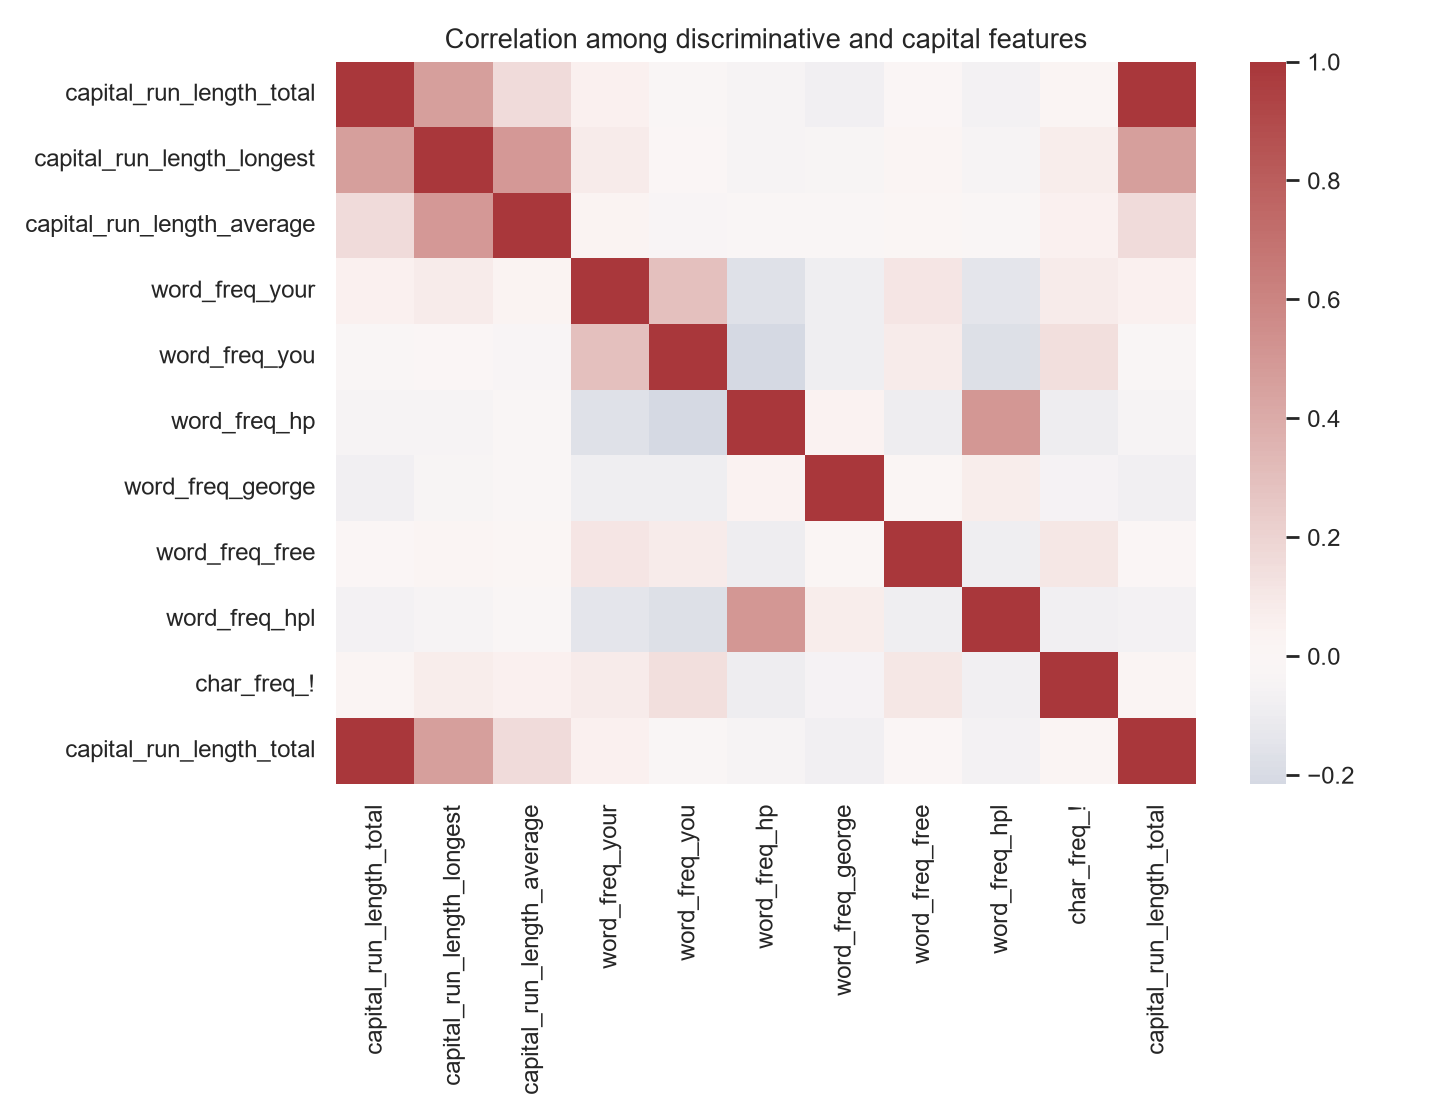
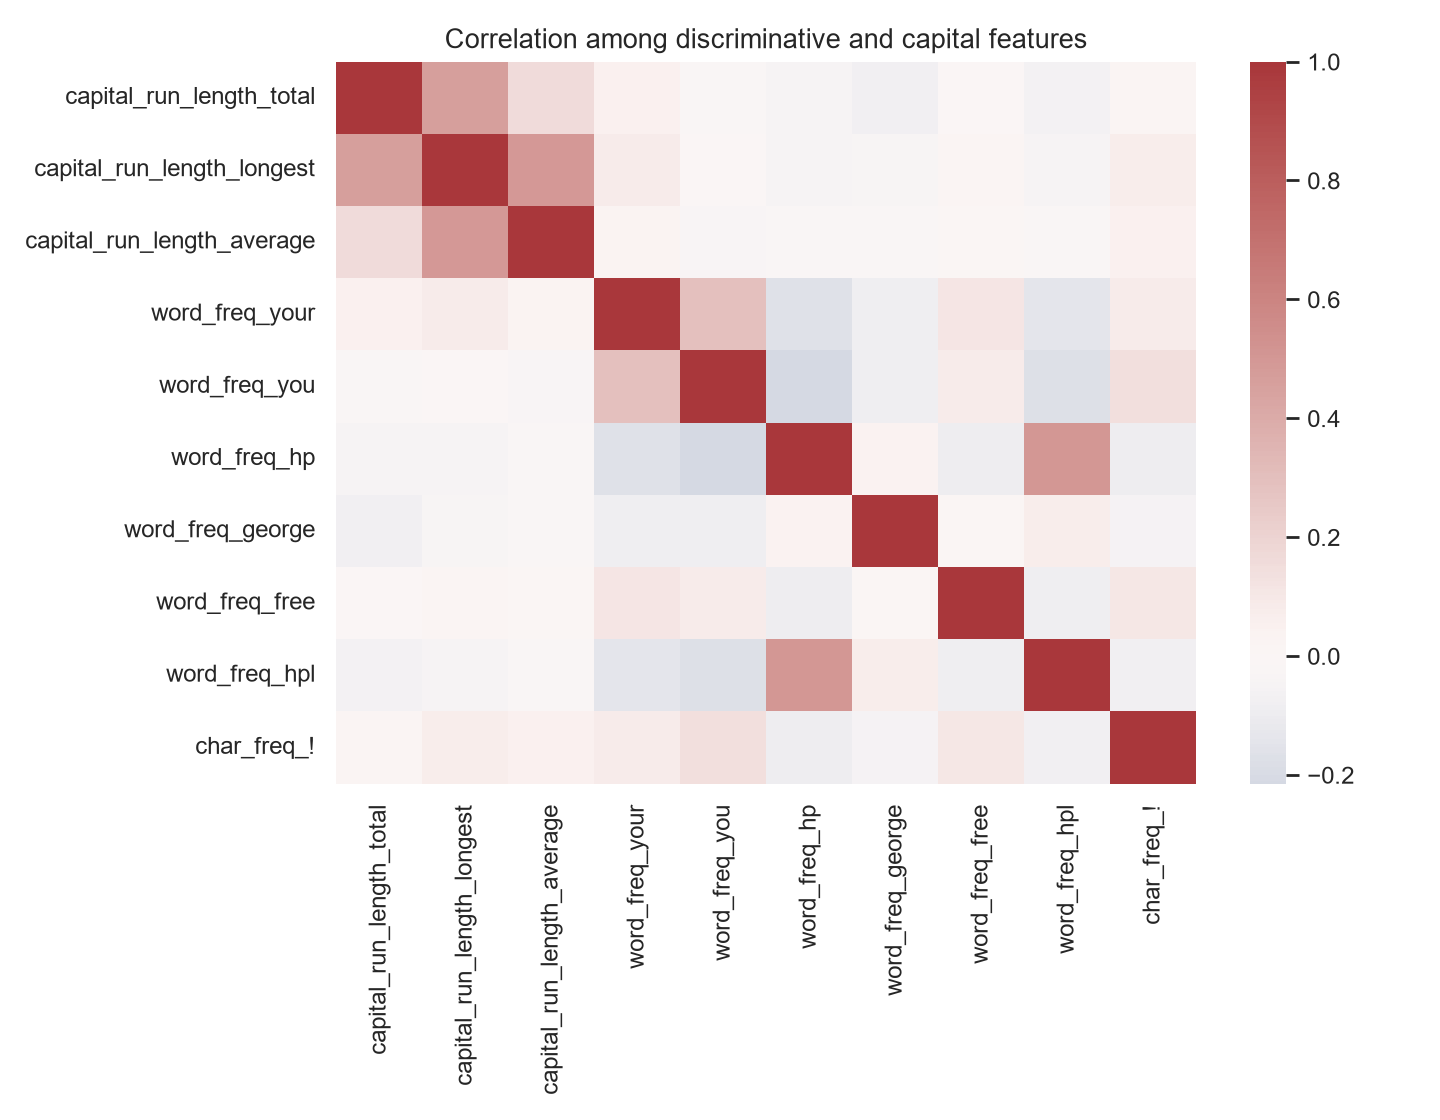
changed 04 feature correlation

diff --git a/src/spam_detection/eda.py b/src/spam_detection/eda.py
@@ -64,7 +64,9 @@ def run_eda(output_dir: Path = PROCESSED_DATA_DIR / "eda") -> list[str]:
         "Several word and symbol features differ substantially by class, motivating content-plus-symbol inputs."
     )
 
-    correlation_columns = list(top_columns) + ["capital_run_length_total"]
+    correlation_columns = list(
+        dict.fromkeys([*top_columns, "capital_run_length_total"])
+    )
     plt.figure(figsize=(9, 7))
     sns.heatmap(data[correlation_columns].corr(), cmap="vlag", center=0)
     plt.title("Correlation among discriminative and capital features")
